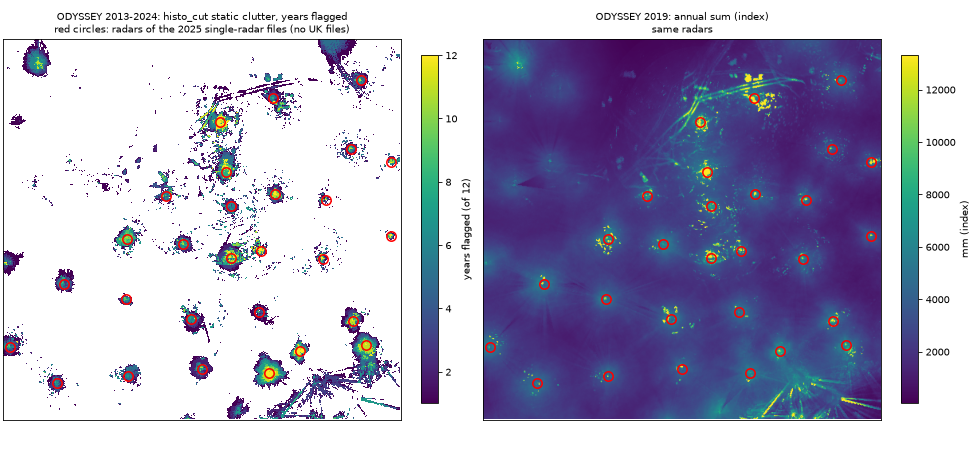
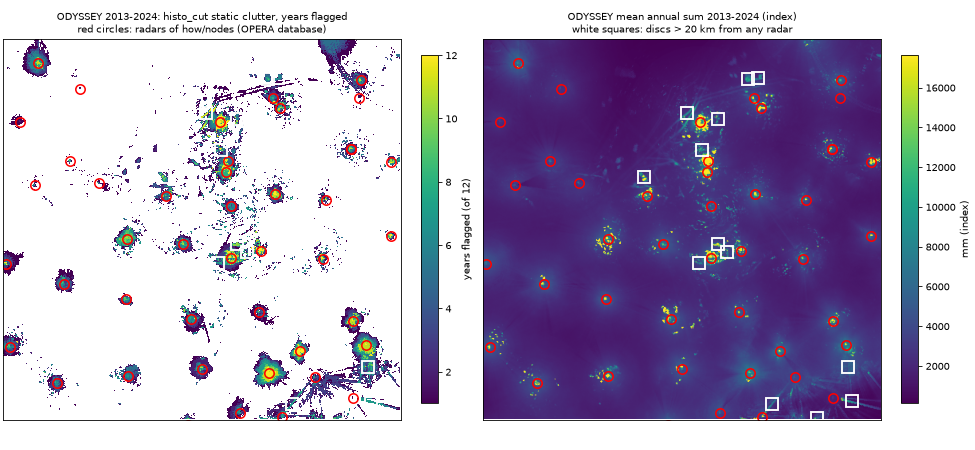
H2: radar positions from the OPERA radar database (review of #74)
All radars of how/nodes are placed with the OPERA database (active and
archived), which adds the UK and stopped radars; the radar table in data.md
now has 57 radars with site and position, and the database is in the
inventory. 13 discs lie more than 20 km from any radar: other sources,
listed in method.md and marked on the figure. Sections 5, 7 and 8 of
notebook 05 and their numbers are recomputed with these positions.

diff --git a/docs/data.md b/docs/data.md
@@ -210,59 +210,88 @@ listed on a day when it is in at least half of that day's composites. Days
 with no composite are left out, so a gap in the archive is not counted as an
 absence.
 
-The table covers two groups of radars:
-- the radars of the 2025 single-radar files that lie within 100 km of the
-  Belgian crop;
-- five radars of Germany and the Netherlands that stopped during the period.
+The radar positions come from the OPERA radar database of EUMETNET
+(*Inventory of sources and licences*). Both of its files are used:
+- `OPERA_RADARS_DB.json`, the active radars;
+- `OPERA_RADARS_ARH_DB.json`, the archived ones.
 
-The UK radars are missing: the bucket has no UK single-radar files, so their
-position is unknown.
+They were downloaded on 10/11/2026 into `data/opera_radars/`.
+- **Matching.** Each code of `how/nodes` is matched with the `odimcode` of
+  the database. When a code is in both files (several German radars renewed
+  on almost the same site), the active row is used.
+- **Coverage.** All the ODYSSEY codes of the domain are in the database
+  except `deflg`. The other missing codes are Spanish and old Estonian,
+  Croatian and Icelandic radars.
+- **Check.** For the 47 radars that also have a 2025 single-radar file, the
+  database position matches the one in the file within 0.0003°.
+
+The table lists the 56 radars of `how/nodes` that lie within 100 km of the
+Belgian crop, plus `deflg`, which has no position. The column *in the crop*
+says whether the radar itself is inside the crop.
 
 The archive becomes regular only in April 2013 (*Known problems*). So a
 "first day" before that date is the start of the readable archive, not
 necessarily the radar's.
 
-| node | first day | last day | days listed / days in its period | longest absence, days |
-|---|---|---|---:|---|
-| `behel` | 21/3/2018 | 5/7/2024 | 1,980 / 2,293 | 258 (17/6/2020 to 1/3/2021) |
-| `bejab` | 27/11/2014 | 5/7/2024 | 3,153 / 3,503 | 98 (6/11/2015 to 11/2/2016) |
-| `bewid` | 26/3/2013 | 5/7/2024 | 3,730 / 4,114 | 124 (8/4/2022 to 9/8/2022) |
-| `deasb` | 24/4/2018 | 5/7/2024 | 2,024 / 2,259 | 170 (18/6/2018 to 4/12/2018) |
-| `deboo` | 28/1/2014 | 5/7/2024 | 3,722 / 3,806 | 29 (27/7/2016 to 24/8/2016) |
-| `deeis` | 4/9/2012 | 5/7/2024 | 3,719 / 4,177 | 229 (6/6/2013 to 20/1/2014) |
-| `deemd` | 4/9/2012 | 27/2/2018 | 1,565 / 1,863 | 180 (22/7/2015 to 17/1/2016) |
-| `deess` | 27/3/2013 | 5/7/2024 | 4,032 / 4,113 | 29 (27/7/2016 to 24/8/2016) |
-| `defbg` | 5/2/2019 | 5/7/2024 | 1,945 / 1,972 | 5 (8/7/2023 to 12/7/2023) |
-| `defld` | 4/9/2012 | 5/7/2024 | 3,727 / 4,177 | 197 (29/4/2014 to 11/11/2014) |
-| `deflg` | 22/1/2013 | 4/2/2019 | 2,140 / 2,199 | 29 (27/7/2016 to 24/8/2016) |
-| `deham` | 4/9/2012 | 23/1/2014 | 366 / 367 | 1 (14/3/2013 to 14/3/2013) |
-| `dehan` | 4/9/2012 | 22/4/2015 | 360 / 821 | 317 (26/3/2013 to 5/2/2014) |
-| `dehnr` | 23/4/2015 | 5/7/2024 | 3,282 / 3,356 | 29 (27/7/2016 to 24/8/2016) |
-| `deisn` | 28/1/2014 | 5/7/2024 | 3,707 / 3,806 | 30 (27/7/2016 to 25/8/2016) |
-| `demem` | 12/6/2013 | 5/7/2024 | 3,879 / 4,036 | 68 (14/1/2023 to 22/3/2023) |
-| `deneu` | 26/3/2013 | 5/7/2024 | 4,031 / 4,114 | 29 (27/7/2016 to 24/8/2016) |
-| `denhb` | 4/9/2012 | 5/7/2024 | 3,750 / 4,177 | 252 (28/8/2013 to 6/5/2014) |
-| `deoft` | 4/9/2012 | 5/7/2024 | 4,099 / 4,177 | 30 (26/7/2016 to 24/8/2016) |
-| `deros` | 4/9/2012 | 5/7/2024 | 3,686 / 4,177 | 390 (13/6/2013 to 7/7/2014) |
-| `detur` | 4/9/2012 | 5/7/2024 | 3,717 / 4,177 | 397 (5/4/2013 to 6/5/2014) |
-| `deumd` | 4/9/2012 | 3/7/2024 | 3,738 / 4,175 | 300 (14/2/2013 to 16/12/2013) |
-| `frabb` | 4/9/2012 | 5/7/2024 | 4,125 / 4,177 | 11 (17/3/2019 to 27/3/2019) |
-| `frave` | 4/9/2012 | 5/7/2024 | 4,106 / 4,177 | 25 (2/5/2020 to 26/5/2020) |
-| `frbla` | 4/9/2012 | 5/7/2024 | 4,120 / 4,177 | 11 (9/8/2013 to 19/8/2013) |
-| `frbou` | 4/9/2012 | 5/7/2024 | 4,015 / 4,177 | 94 (23/4/2018 to 25/7/2018) |
-| `frcae` | 4/9/2012 | 5/7/2024 | 3,969 / 4,177 | 122 (25/2/2014 to 26/6/2014) |
-| `frche` | 4/9/2012 | 5/7/2024 | 4,034 / 4,177 | 17 (16/1/2022 to 1/2/2022) |
-| `frgre` | 4/9/2012 | 5/7/2024 | 4,139 / 4,177 | 7 (17/4/2019 to 23/4/2019) |
-| `frlep` | 4/9/2012 | 5/7/2024 | 3,889 / 4,177 | 190 (10/9/2013 to 18/3/2014) |
-| `frmtc` | 4/9/2012 | 5/7/2024 | 3,942 / 4,177 | 73 (9/10/2019 to 20/12/2019) |
-| `frnan` | 4/9/2012 | 5/7/2024 | 3,981 / 4,177 | 141 (16/5/2017 to 3/10/2017) |
-| `frniz` | 4/9/2012 | 5/7/2024 | 3,999 / 4,177 | 155 (15/9/2015 to 16/2/2016) |
-| `frtra` | 4/9/2012 | 5/7/2024 | 4,163 / 4,177 | 3 (7/3/2020 to 9/3/2020) |
-| `frtre` | 4/9/2012 | 5/7/2024 | 3,949 / 4,177 | 211 (8/3/2016 to 4/10/2016) |
-| `frtro` | 4/9/2012 | 5/7/2024 | 3,939 / 4,177 | 161 (18/5/2015 to 25/10/2015) |
-| `nldbl` | 4/9/2012 | 19/1/2017 | 1,397 / 1,459 | 50 (29/1/2013 to 19/3/2013) |
-| `nldhl` | 4/9/2012 | 5/7/2024 | 3,853 / 4,177 | 113 (10/10/2016 to 30/1/2017) |
-| `nlhrw` | 19/5/2017 | 5/7/2024 | 2,567 / 2,599 | 8 (21/6/2017 to 28/6/2017) |
+| node | site | position | in the crop | first day | last day | days listed / days in its period | longest absence, days |
+|---|---|---|---|---|---|---:|---|
+| `behel` | Helchteren | 51.07 N, 5.41 E | yes | 21/3/2018 | 5/7/2024 | 1,980 / 2,293 | 258 (17/6/2020 to 1/3/2021) |
+| `bejab` | Jabbeke | 51.19 N, 3.06 E | yes | 27/11/2014 | 5/7/2024 | 3,153 / 3,503 | 98 (6/11/2015 to 11/2/2016) |
+| `bewid` | Wideumont | 49.91 N, 5.50 E | yes | 26/3/2013 | 5/7/2024 | 3,730 / 4,114 | 124 (8/4/2022 to 9/8/2022) |
+| `chalb` | Albis | 47.28 N, 8.51 E | yes | 7/3/2017 | 5/7/2024 | 2,623 / 2,672 | 8 (21/6/2017 to 28/6/2017) |
+| `chdol` | La Dole | 46.43 N, 6.10 E | yes | 29/6/2017 | 5/7/2024 | 2,532 / 2,558 | 7 (25/10/2017 to 31/10/2017) |
+| `chlem` | Monte Lema | 46.04 N, 8.83 E | no | 16/9/2014 | 5/7/2024 | 3,528 / 3,575 | 11 (12/12/2020 to 22/12/2020) |
+| `chppm` | Plaine Morte | 46.37 N, 7.49 E | yes | 27/2/2018 | 5/7/2024 | 2,255 / 2,315 | 23 (22/1/2019 to 13/2/2019) |
+| `chwei` | Weissfluhgipfel | 46.84 N, 9.79 E | yes | 27/6/2018 | 5/7/2024 | 2,186 / 2,195 | 5 (18/7/2022 to 22/7/2022) |
+| `deasb` | Isle of Borkum | 53.56 N, 6.75 E | yes | 24/4/2018 | 5/7/2024 | 2,024 / 2,259 | 170 (18/6/2018 to 4/12/2018) |
+| `deboo` | Boostedt | 54.00 N, 10.05 E | yes | 28/1/2014 | 5/7/2024 | 3,722 / 3,806 | 29 (27/7/2016 to 24/8/2016) |
+| `deeis` | Eisberg | 49.54 N, 12.40 E | no | 4/9/2012 | 5/7/2024 | 3,719 / 4,177 | 229 (6/6/2013 to 20/1/2014) |
+| `deemd` | Emden | 53.34 N, 7.02 E | yes | 4/9/2012 | 27/2/2018 | 1,565 / 1,863 | 180 (22/7/2015 to 17/1/2016) |
+| `deess` | Essen | 51.41 N, 6.97 E | yes | 27/3/2013 | 5/7/2024 | 4,032 / 4,113 | 29 (27/7/2016 to 24/8/2016) |
+| `defbg` | Feldberg | 47.87 N, 8.00 E | yes | 5/2/2019 | 5/7/2024 | 1,945 / 1,972 | 5 (8/7/2023 to 12/7/2023) |
+| `defld` | Flechtdorf | 51.31 N, 8.80 E | yes | 4/9/2012 | 5/7/2024 | 3,727 / 4,177 | 197 (29/4/2014 to 11/11/2014) |
+| `deflg` | not in the database | — | — | 22/1/2013 | 4/2/2019 | 2,140 / 2,199 | 29 (27/7/2016 to 24/8/2016) |
+| `deham` | Hamburg | 53.62 N, 10.00 E | yes | 4/9/2012 | 23/1/2014 | 366 / 367 | 1 (14/3/2013 to 14/3/2013) |
+| `dehan` | Hannover | 52.46 N, 9.70 E | yes | 4/9/2012 | 22/4/2015 | 360 / 821 | 317 (26/3/2013 to 5/2/2014) |
+| `dehnr` | Hannover | 52.46 N, 9.69 E | yes | 23/4/2015 | 5/7/2024 | 3,282 / 3,356 | 29 (27/7/2016 to 24/8/2016) |
+| `deisn` | Isen/München | 48.17 N, 12.10 E | no | 28/1/2014 | 5/7/2024 | 3,707 / 3,806 | 30 (27/7/2016 to 25/8/2016) |
+| `demem` | Memmingen | 48.04 N, 10.22 E | yes | 12/6/2013 | 5/7/2024 | 3,879 / 4,036 | 68 (14/1/2023 to 22/3/2023) |
+| `demuc` | München | 48.34 N, 11.61 E | no | 26/3/2013 | 21/1/2014 | 293 / 302 | 4 (20/6/2013 to 23/6/2013) |
+| `deneu` | Neuhaus | 50.50 N, 11.14 E | yes | 26/3/2013 | 5/7/2024 | 4,031 / 4,114 | 29 (27/7/2016 to 24/8/2016) |
+| `denhb` | Neuheilenbach | 50.11 N, 6.55 E | yes | 4/9/2012 | 5/7/2024 | 3,750 / 4,177 | 252 (28/8/2013 to 6/5/2014) |
+| `deoft` | Offenthal | 49.98 N, 8.71 E | yes | 4/9/2012 | 5/7/2024 | 4,099 / 4,177 | 30 (26/7/2016 to 24/8/2016) |
+| `deros` | Rostock | 54.18 N, 12.06 E | no | 4/9/2012 | 5/7/2024 | 3,686 / 4,177 | 390 (13/6/2013 to 7/7/2014) |
+| `detur` | Tuerkheim | 48.59 N, 9.78 E | yes | 4/9/2012 | 5/7/2024 | 3,717 / 4,177 | 397 (5/4/2013 to 6/5/2014) |
+| `deumd` | Ummendorf | 52.16 N, 11.18 E | yes | 4/9/2012 | 3/7/2024 | 3,738 / 4,175 | 300 (14/2/2013 to 16/12/2013) |
+| `dkrom` | Römö | 55.17 N, 8.55 E | no | 26/3/2013 | 5/7/2024 | 4,007 / 4,114 | 20 (24/8/2017 to 12/9/2017) |
+| `dkste` | Stevns | 55.33 N, 12.45 E | no | 26/3/2013 | 5/7/2024 | 4,009 / 4,114 | 21 (6/10/2017 to 26/10/2017) |
+| `frabb` | Abbeville | 50.14 N, 1.83 E | yes | 4/9/2012 | 5/7/2024 | 4,125 / 4,177 | 11 (17/3/2019 to 27/3/2019) |
+| `frave` | Avesnes | 50.13 N, 3.81 E | yes | 4/9/2012 | 5/7/2024 | 4,106 / 4,177 | 25 (2/5/2020 to 26/5/2020) |
+| `frbla` | Blaisy-Haut | 47.36 N, 4.78 E | yes | 4/9/2012 | 5/7/2024 | 4,120 / 4,177 | 11 (9/8/2013 to 19/8/2013) |
+| `frbou` | Bourges | 47.06 N, 2.36 E | yes | 4/9/2012 | 5/7/2024 | 4,015 / 4,177 | 94 (23/4/2018 to 25/7/2018) |
+| `frcae` | Falaise | 48.93 N, 0.15 W | yes | 4/9/2012 | 5/7/2024 | 3,969 / 4,177 | 122 (25/2/2014 to 26/6/2014) |
+| `frche` | Cherves | 46.70 N, 0.07 E | yes | 4/9/2012 | 5/7/2024 | 4,034 / 4,177 | 17 (16/1/2022 to 1/2/2022) |
+| `frgre` | Grèzes | 45.10 N, 1.37 E | no | 4/9/2012 | 5/7/2024 | 4,139 / 4,177 | 7 (17/4/2019 to 23/4/2019) |
+| `frlep` | Sembadel | 45.29 N, 3.71 E | no | 4/9/2012 | 5/7/2024 | 3,889 / 4,177 | 190 (10/9/2013 to 18/3/2014) |
+| `frmtc` | Montancy | 47.37 N, 7.02 E | yes | 4/9/2012 | 5/7/2024 | 3,942 / 4,177 | 73 (9/10/2019 to 20/12/2019) |
+| `frnan` | Nancy | 48.72 N, 6.58 E | yes | 4/9/2012 | 5/7/2024 | 3,981 / 4,177 | 141 (16/5/2017 to 3/10/2017) |
+| `frniz` | Saint Nizier | 46.07 N, 4.45 E | no | 4/9/2012 | 5/7/2024 | 3,999 / 4,177 | 155 (15/9/2015 to 16/2/2016) |
+| `frtra` | Trappes | 48.77 N, 2.01 E | yes | 4/9/2012 | 5/7/2024 | 4,163 / 4,177 | 3 (7/3/2020 to 9/3/2020) |
+| `frtre` | Treillères | 47.34 N, 1.66 W | yes | 4/9/2012 | 5/7/2024 | 3,949 / 4,177 | 211 (8/3/2016 to 4/10/2016) |
+| `frtro` | Arcis-sur-Aube | 48.46 N, 4.31 E | yes | 4/9/2012 | 5/7/2024 | 3,939 / 4,177 | 161 (18/5/2015 to 25/10/2015) |
+| `nldbl` | De Bilt | 52.10 N, 5.18 E | yes | 4/9/2012 | 19/1/2017 | 1,397 / 1,459 | 50 (29/1/2013 to 19/3/2013) |
+| `nldhl` | Den Helder | 52.95 N, 4.79 E | yes | 4/9/2012 | 5/7/2024 | 3,853 / 4,177 | 113 (10/10/2016 to 30/1/2017) |
+| `nlhrw` | Herwijnen | 51.84 N, 5.14 E | yes | 19/5/2017 | 5/7/2024 | 2,567 / 2,599 | 8 (21/6/2017 to 28/6/2017) |
+| `ukche` | Chenies | 51.69 N, 0.53 W | yes | 4/9/2012 | 5/7/2024 | 3,956 / 4,177 | 57 (22/1/2013 to 19/3/2013) |
+| `ukcle` | Clee Hill | 52.40 N, 2.60 W | yes | 4/9/2012 | 3/7/2024 | 3,775 / 4,175 | 222 (23/2/2015 to 2/10/2015) |
+| `ukcob` | Cobbacombe Cross | 50.96 N, 3.45 W | no | 4/9/2012 | 5/7/2024 | 3,782 / 4,177 | 134 (25/12/2013 to 7/5/2014) |
+| `ukcyg` | Crug y Gorllwyn | 51.98 N, 4.44 W | no | 4/9/2012 | 5/7/2024 | 3,805 / 4,177 | 295 (14/9/2015 to 4/7/2016) |
+| `ukdea` | Dean Hill | 51.03 N, 1.65 W | yes | 4/9/2012 | 5/7/2024 | 3,799 / 4,177 | 219 (17/10/2016 to 23/5/2017) |
+| `ukham` | Hameldon Hill | 53.75 N, 2.29 W | yes | 4/9/2012 | 5/7/2024 | 3,688 / 4,177 | 318 (3/3/2014 to 14/1/2015) |
+| `ukhmy` | High Moorsley | 54.80 N, 1.47 W | no | 4/9/2012 | 5/7/2024 | 3,874 / 4,177 | 170 (23/5/2016 to 8/11/2016) |
+| `uking` | Ingham | 53.33 N, 0.56 W | yes | 4/9/2012 | 5/7/2024 | 3,793 / 4,177 | 255 (1/9/2014 to 13/5/2015) |
+| `ukjer` | Jersey | 49.18 N, 2.22 W | yes | 4/9/2012 | 5/7/2024 | 3,984 / 4,177 | 99 (1/6/2016 to 7/9/2016) |
+| `ukthu` | Thurnham | 51.29 N, 0.60 E | yes | 26/3/2013 | 5/7/2024 | 3,703 / 4,114 | 202 (28/5/2013 to 15/12/2013) |
 
 - **Radars that start or stop within the period:**
   - `bejab` starts on 27/11/2014 and `behel` on 21/3/2018.
@@ -277,7 +306,7 @@ necessarily the radar's.
   - `bewid` 124 days (2022);
   - `deros` 390 days (2013–2014).
 - **A common absence.** From 28/7 to 23/8/2016 no German radar is listed in
-  any composite. The radars of the table are missing from 26–27/7 to
+  any composite. The German radars of the table are missing from 26–27/7 to
   24–25/8/2016.
 
 ## Known problems
@@ -344,6 +373,7 @@ own documentation.
 | source | content | period | licence | notes |
 |---|---|---|---|---|
 | OPERA ORD bucket (EUMETNET) | ODYSSEY, CIRRUS, NIMBUS composites | 2012 → now | CC BY 4.0 | see *OPERA public archive* above |
+| [OPERA radar database](https://eumetnet.eu/wp-content/themes/aeron-child/observations-programme/current-activities/opera/database/OPERA_Database) (EUMETNET) | ODIM code, site, coordinates, band, start and end year of each OPERA radar; active radars (`OPERA_RADARS_DB.json`) and archived ones (`OPERA_RADARS_ARH_DB.json`), also as CSV and XLSX | the database as published (downloaded 10/11/2026) | not stated | positions of the radars of `how/nodes` (*Radars in the ODYSSEY composites*); local copy in `data/opera_radars/` |
 | MeteoGate ORD API (`https://api.meteogate.eu/eu-eumetnet-weather-radar`, OGC EDR) | the same OPERA products | **last 24 hours only** | CC BY 4.0 (OPERA data) | also with a key (which raises the limit to 2000 requests/hour). Useful for recent CIRRUS metadata, not for history. Credentials in `.env` |
 | [EURADCLIM 3.0](https://dataplatform.knmi.nl/dataset/rad-opera-24h-rainfall-accumulation-euradclim-3-0) (KNMI Data Platform) | OPERA rain accumulations adjusted with rain gauges, 1 h and 24 h, 2 km | 2013–2023 | CC BY 4.0 | versions 1.0 and 2.0 are deprecated; a yearly rerun is expected |
 | [ECA&D](https://www.ecad.eu) (KNMI) | daily station series, including precipitation | from the 19th century, varies by station | **non-commercial research and education only**; results must be published in the open literature | about 85% of the series can be downloaded; E-OBS (gridded) has the [same terms](https://ewds.climate.copernicus.eu/licences/licence-to-use-E-OBS-products) |

diff --git a/docs/method.md b/docs/method.md
@@ -712,18 +712,33 @@ next year. So the mask must be stable from year to year.
 - **What the stable pixels are:** the centres of the discs and the fixed
   points. The outer rings of the discs change from year to year, as rain
   would.
-- **The discs sit on the radars** (review of #74). The radar positions come
-  from the 2025 single-radar files (`scripts/fetch_pvol_positions.py`); the UK
-  radars have no files in the bucket.
-  - Of the 44 discs flagged in at least 6 years (at least 20 pixels each), 26
-    have their centre within 10 km of a radar.
-  - Of the pixels flagged in at least 10 years, 75% lie within 20 km of a
-    radar, against 3.7% of the crop.
-  - So the discs are the excess of a maximum composite near each radar, where
-    the beam is low, and not clutter. With 5% tails, `histo_cut` on the
+- **The discs sit on the radars** (review of #74). The positions of all the
+  radars of `how/nodes` come from the OPERA radar database (`data.md`,
+  *Radars in the ODYSSEY composites*). The database adds the UK radars and the
+  stopped ones that are missing from the 2025 single-radar files.
+  - Of the 44 discs flagged in at least 6 years (at least 20 pixels each), 29
+    have their centre within 10 km of a radar and 31 within 20 km.
+  - Of the pixels flagged in at least 10 years, 80% lie within 20 km of a
+    radar, against 5.5% of the crop.
+  - So these discs are the excess of a maximum composite near each radar,
+    where the beam is low, and not clutter. With 5% tails, `histo_cut` on the
     annual sum removes rain there.
   - For the first version, the static mask is to be based on the frequency
     maps (Wagner et al. 2012) and on the points above 70 dBZ instead.
+- **Discs with no radar** (white squares). 13 discs have their centre more
+  than 20 km from any radar of the database, so they come from another
+  source: a wind farm, a transmitter or strong clutter. These are the ones
+  the static mask must catch.
+  - **At sea or on the coast:**
+    - north of the Wadden islands, at 54.0 N, 6.5 E and 54.0 N, 6.9 E;
+    - off North Holland, at 53.1 N, 4.3 E;
+    - off the Belgian coast, at 51.6 N, 2.9 E.
+  - **Inland, Netherlands:** 53.0 N, 5.4 E and 52.3 N, 4.9 E.
+  - **Ardennes and Luxembourg:** 50.2 N, 5.7 E; 50.0 N, 6.1 E; 49.8 N, 5.1 E.
+  - **Alps:** 47.5 N, 10.3 E; 46.7 N, 7.8 E; 46.8 N, 10.4 E; 46.4 N, 9.3 E.
+  - What each one is was not checked. Wind-farm positions (*Choice*,
+    later improvements) would check the ones at sea and in the Netherlands
+    and the Ardennes. The Alpine ones are consistent with mountain clutter.
 - **Bug in wradlib 2.9.8.** `histo_cut` fails when its input has NaN: it
   starts from `max()`, not `nanmax()`. In 2013 there are 337 crop pixels that
   are never covered. The notebook therefore passes only the pixels with at
@@ -738,7 +753,8 @@ used:
 - the radars listed in `how/nodes` (`data.md`, *Radars in the ODYSSEY
   composites*).
 
-For each radar with a 2025 position, two areas are compared month by month:
+For each radar of the OPERA database whose areas lie in the crop (45 radars),
+two areas are compared month by month:
 - *near*: a disc of 20 km around the radar;
 - *far*: a ring at 60–100 km.
 
@@ -752,28 +768,31 @@ are used.
 
 - **Two steps shared by almost all radars.**
   - **December 2015.** The median near-radar echo frequency over the radars
-    falls from 0.44 in November 2015 to 0.22 in December 2015. The far one
+    falls from 0.42 in November 2015 to 0.22 in December 2015. The far one
     does not fall. Over 12 months before and after, the ratio falls by a
-    factor of 0.55. The step matches the change of OPERA's central
+    factor of 0.57. The step matches the change of OPERA's central
     processing in December 2015: satellite filter and beam-blockage
     correction (Saltikoff et al. 2019).
-  - **August 2018.** The near frequency falls again, from 0.28 in July to
+  - **August 2018.** The near frequency falls again, from 0.23 in July to
     0.10 in August 2018. The OPERA note on CIRRUS and ODYSSEY (Radojevic
     2024, Table 3) says that ODYSSEY uses a 2018 satellite filter. A new
     version of the filter in 2018 is consistent with this step, but it is
     not proven: the note gives the year, not the month.
-  - For 23 of the 29 radars, the largest change of the ratio (median of 6
-    months after against 6 months before) is a fall that starts in November
-    2015–April 2016 or in July 2018–August 2019.
-  - For four of the other six, it is a rise: in 2014 for `frabb`, `frtro`
+  - For each radar, the largest change of the ratio was taken (median of 6
+    months after against 6 months before). For 25 of the 42 radars with
+    enough months, it is a fall that starts in November 2015–April 2016 or in
+    July 2018–August 2019.
+  - All 21 falls stronger than a factor of 0.6 start in these two windows.
+  - The UK and Swiss radars, at the edges of the crop, change less (falls
+    of 0.76–0.87) or rise. Rises are also found in 2014 for `frabb`, `frtro`
     and `frtre`, and in January 2015 for `defld`.
 - **Summer echoes near the radars until 2015.** In 2014 and 2015 the
-  near-radar echo frequency reaches about 0.5 in summer, against 0.14–0.18
+  near-radar echo frequency reaches about 0.45 in summer, against 0.14–0.16
   far away. This summer excess almost disappears after December 2015. It
   fits echoes without rain near the radars that the satellite filter
   removes. It is the example of this artefact type for the catalogue.
 - **Since 2019 the near/far ratio is about 1.2 all year** (median of the
-  radars, summer and winter). In 2014–2018 it was 1.5–3.7, with 3.1–3.7 in
+  radars, summer and winter). In 2014–2018 it was 1.4–3.1, with 2.8–3.1 in
   the summers of 2014, 2015 and 2018.
   So the near-radar discs of the yearly catalogue belong mostly to
   2013–2018.
@@ -793,7 +812,7 @@ one example per artefact type.
   11 pixels (echoes above 0 dBZ, 8-connected). This is the size below which
   Gabella's shape test removes a region, as in section 1 of the notebook.
 - **How common.** 1.2% of the echo pixel-times are isolated. The share is
-  2.0% within 20 km of a radar, 1.6% at 20–60 km, and 0.9% beyond 120 km.
+  1.9% within 20 km of a radar, 1.5% at 20–60 km, and 0.9% beyond 60 km.
 - **Where they lie:**
   - in rings and radial lines around the radars;
   - along the edge of a radar's coverage (an arc in the north-west);
@@ -806,9 +825,12 @@ one example per artefact type.
 - **Data.** The echo frequency (≥ 7 dBZ) of the last period, September 2018 –
   June 2024. For each radar, the median of each 1° azimuth is taken in a ring
   at 20–80 km.
-- **No blocked sector.** No profile has a wedge with fewer echoes. The few
-  azimuths below 90% of the radar's median are broad, smooth dips, not
-  wedges with sharp edges.
+- **No blocked sector.** The profiles of the 39 radars on in that period
+  show no wedge with fewer echoes and sharp edges. The azimuths below 90%
+  of a radar's median form broad, smooth dips. The deepest is that of
+  `chwei` (Weissfluhgipfel), whose frequency falls to about half over the
+  eastern and southern azimuths, towards the inner Alps. This fits shielding
+  by the terrain, but it cannot be told apart from the climate there.
 - **Why.** The maximum composite fills a blocked sector of one radar with
   the echoes of its neighbours. OPERA has also corrected beam blockage
   centrally since late 2015 (Saltikoff et al. 2019). `histo_cut` found no
@@ -816,11 +838,11 @@ one example per artefact type.
   here.
 - **Spoke residual.** On the 2023 annual sum, I counted the edges where two
   adjacent azimuths differ by more than 10% (Wagner's spoke-edge rule) over
-  the 28 radars:
-  - 1,219 before cleaning;
-  - 1,061 after Gabella;
-  - 993 after the first version (−19%).
-  - One year of rain also makes such edges, so 993 is an upper bound of the
+  the 39 radars of the crop listed on at least half of the days of 2023:
+  - 1,839 before cleaning;
+  - 1,632 after Gabella;
+  - 1,517 after the first version (−18%).
+  - One year of rain also makes such edges, so 1,517 is an upper bound of the
     spokes left (interference included).
 
 ### Static mask: rules in the literature
@@ -847,9 +869,9 @@ monthly catalogue:
 
 | period | months | pixels above 60% per month, median (max) | of them within 20 km of a radar | pixels above 90%, median |
 |---|---:|---:|---:|---:|
-| 4/2013–11/2015 | 32 | 2,040 (5,120) | 61% | 465 |
-| 12/2015–7/2018 | 32 | 16 (3,327) | 69% | 0 |
-| 8/2018–6/2024 | 72 | 0 (1,374) | 74% | 0 |
+| 4/2013–11/2015 | 32 | 2,040 (5,120) | 69% | 465 |
+| 12/2015–7/2018 | 32 | 16 (3,327) | 70% | 0 |
+| 8/2018–6/2024 | 72 | 0 (1,374) | 89% | 0 |
 
 The rule finds almost nothing after 2015. So on our composite most of what
 it targets was already removed upstream, and what it flags before December
